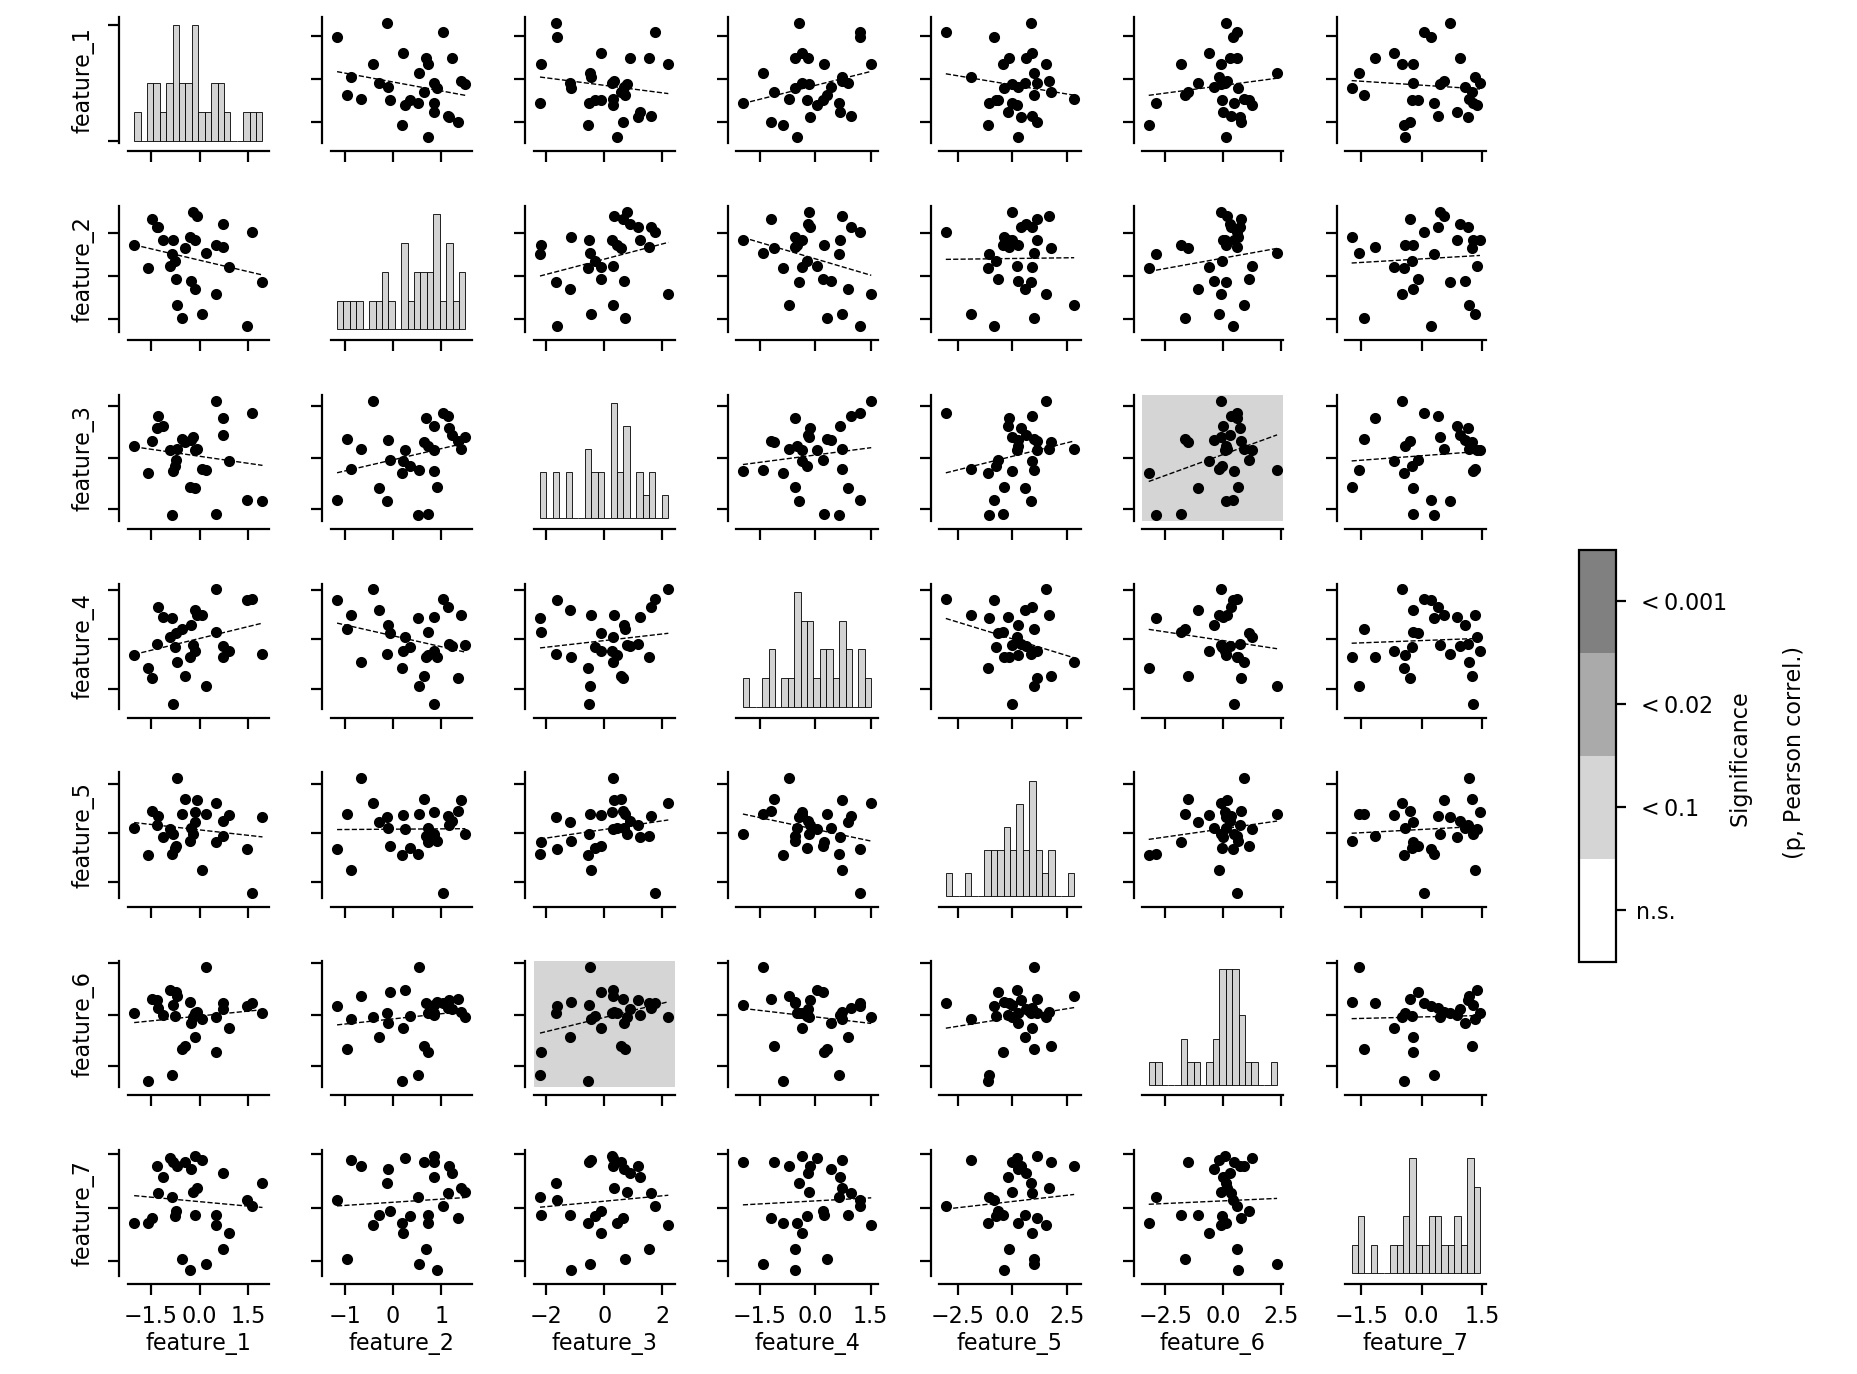
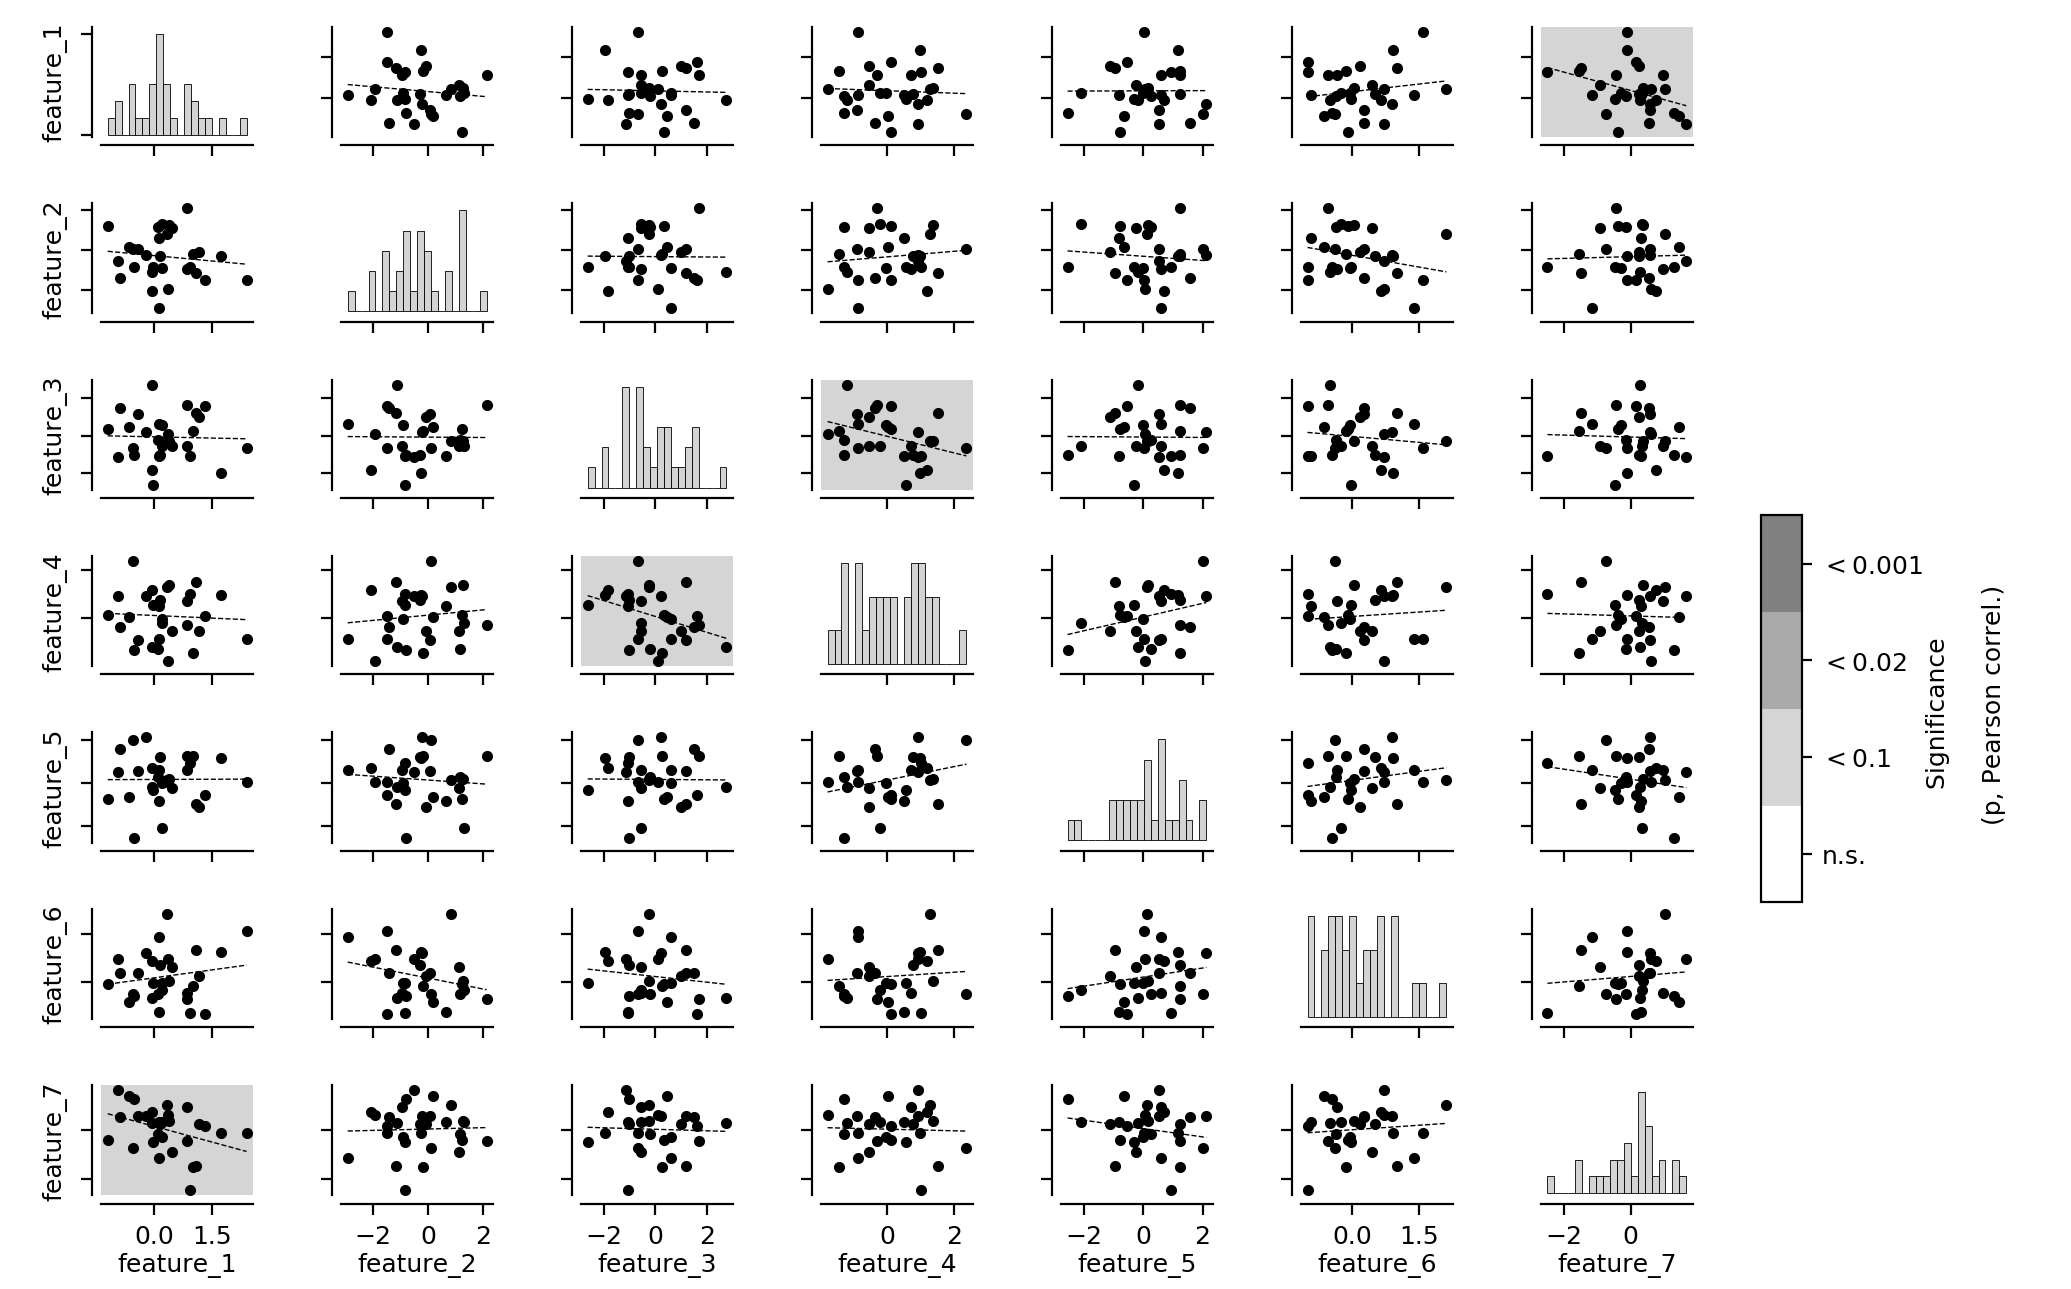
update cross-correl

diff --git a/datavyz/cross_correl_plot.py b/datavyz/cross_correl_plot.py
@@ -10,7 +10,7 @@ from datavyz.hist_plots import hist
 
 def cross_correl_plot_func(graph, data, features=None,
                            figsize=(.8,.7),
-                           fig_args=dict(left=0.1, bottom=0.1, right=1.4, top=0.1, wspace=0.1, hspace=0.1),
+                           fig_args={'right':15.},
                            ms=3, many_data=False):
     """
     'data' should be an array of dictionaries with keys 'vec' and labels 'label'
@@ -94,7 +94,7 @@ def cross_correl_plot_func(graph, data, features=None,
 if __name__=='__main__':
 
 
-    from datavyz.graph_env import graph_env
+    from datavyz.main import graph_env
     ge = graph_env('manuscript')
 
     # building random data
@@ -102,11 +102,12 @@ if __name__=='__main__':
     for i in range(7):
         data['feature_%s'%(i+1)] = np.random.randn(30)
 
+    # plot
     fig = ge.cross_correl_plot(data,
                                features=list(data.keys())[:7])
     
-    # fig_location = os.path.join(os.path.dirname(os.path.abspath(__file__)),'docs/cross-correl.png')
-    # fig.savefig(fig_location, dpi=200)
-    # print('Figure saved as: ', fig_location)
+    fig_location = os.path.join(os.path.dirname(os.path.abspath(__file__)),'../docs/cross-correl.png')
+    fig.savefig(fig_location, dpi=200)
+    print('Figure saved as: ', fig_location)
     ge.show()
 
